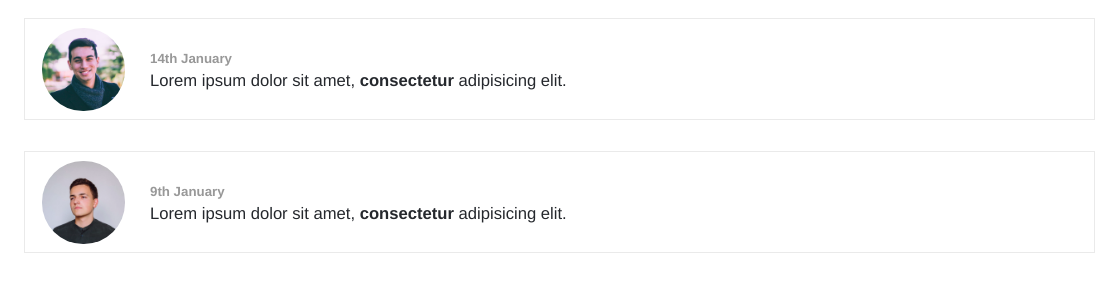
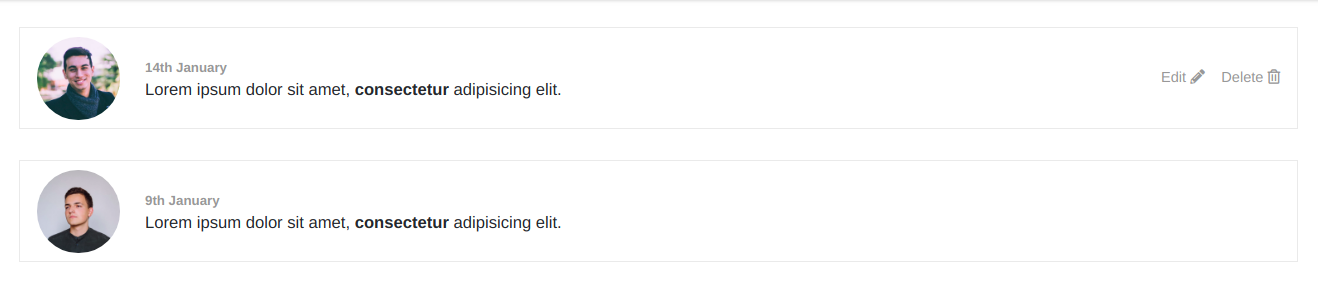
compenent responsive

Changed region(s): [[0.0304, 0.5371, 0.5165, 0.9046], [0.0304, 0.1131, 0.5165, 0.424], [0.8811, 0.2544, 0.9723, 0.311]]

diff --git a/_posts/2019-05-08-composants-design.md b/_posts/2019-05-08-composants-design.md
@@ -12,8 +12,8 @@ J'ai décidé de coder les principaux "composants" ou "éléments de design" que
 ## Landing page:
 [*Voir le code*](https://codepen.io/andryjohn/pen/EzVoWQ)
 ![Card](/images/landing-page.png)
-## Card grid : 
-[*View code*](https://codepen.io/andryjohn/pen/XwmPWR)
+### Card grid : 
+[*Voir le code*](https://codepen.io/andryjohn/pen/XwmPWR)
 ![Card](/images/Cards-design.png)
 
 ### Card product :
@@ -27,6 +27,15 @@ J'ai décidé de coder les principaux "composants" ou "éléments de design" que
 ### Card category:
 [*Voir le code*](https://codepen.io/andryjohn/pen/XwmYqw)
 ![Card](/images/breakfast.png)
+
+#### *"Responsive" sur les appareils mobiles*: 
+
+>![Cards reponsive](/images/Responsive.png)
+
+### Messages: 
+[*Voir le code*](https://codepen.io/andryjohn/pen/RmrrLd)
+![Message](/images/messsage.png)
+
 
 ### Notification:
 [*Voir le code*](https://codepen.io/andryjohn/pen/PvPVRj)
